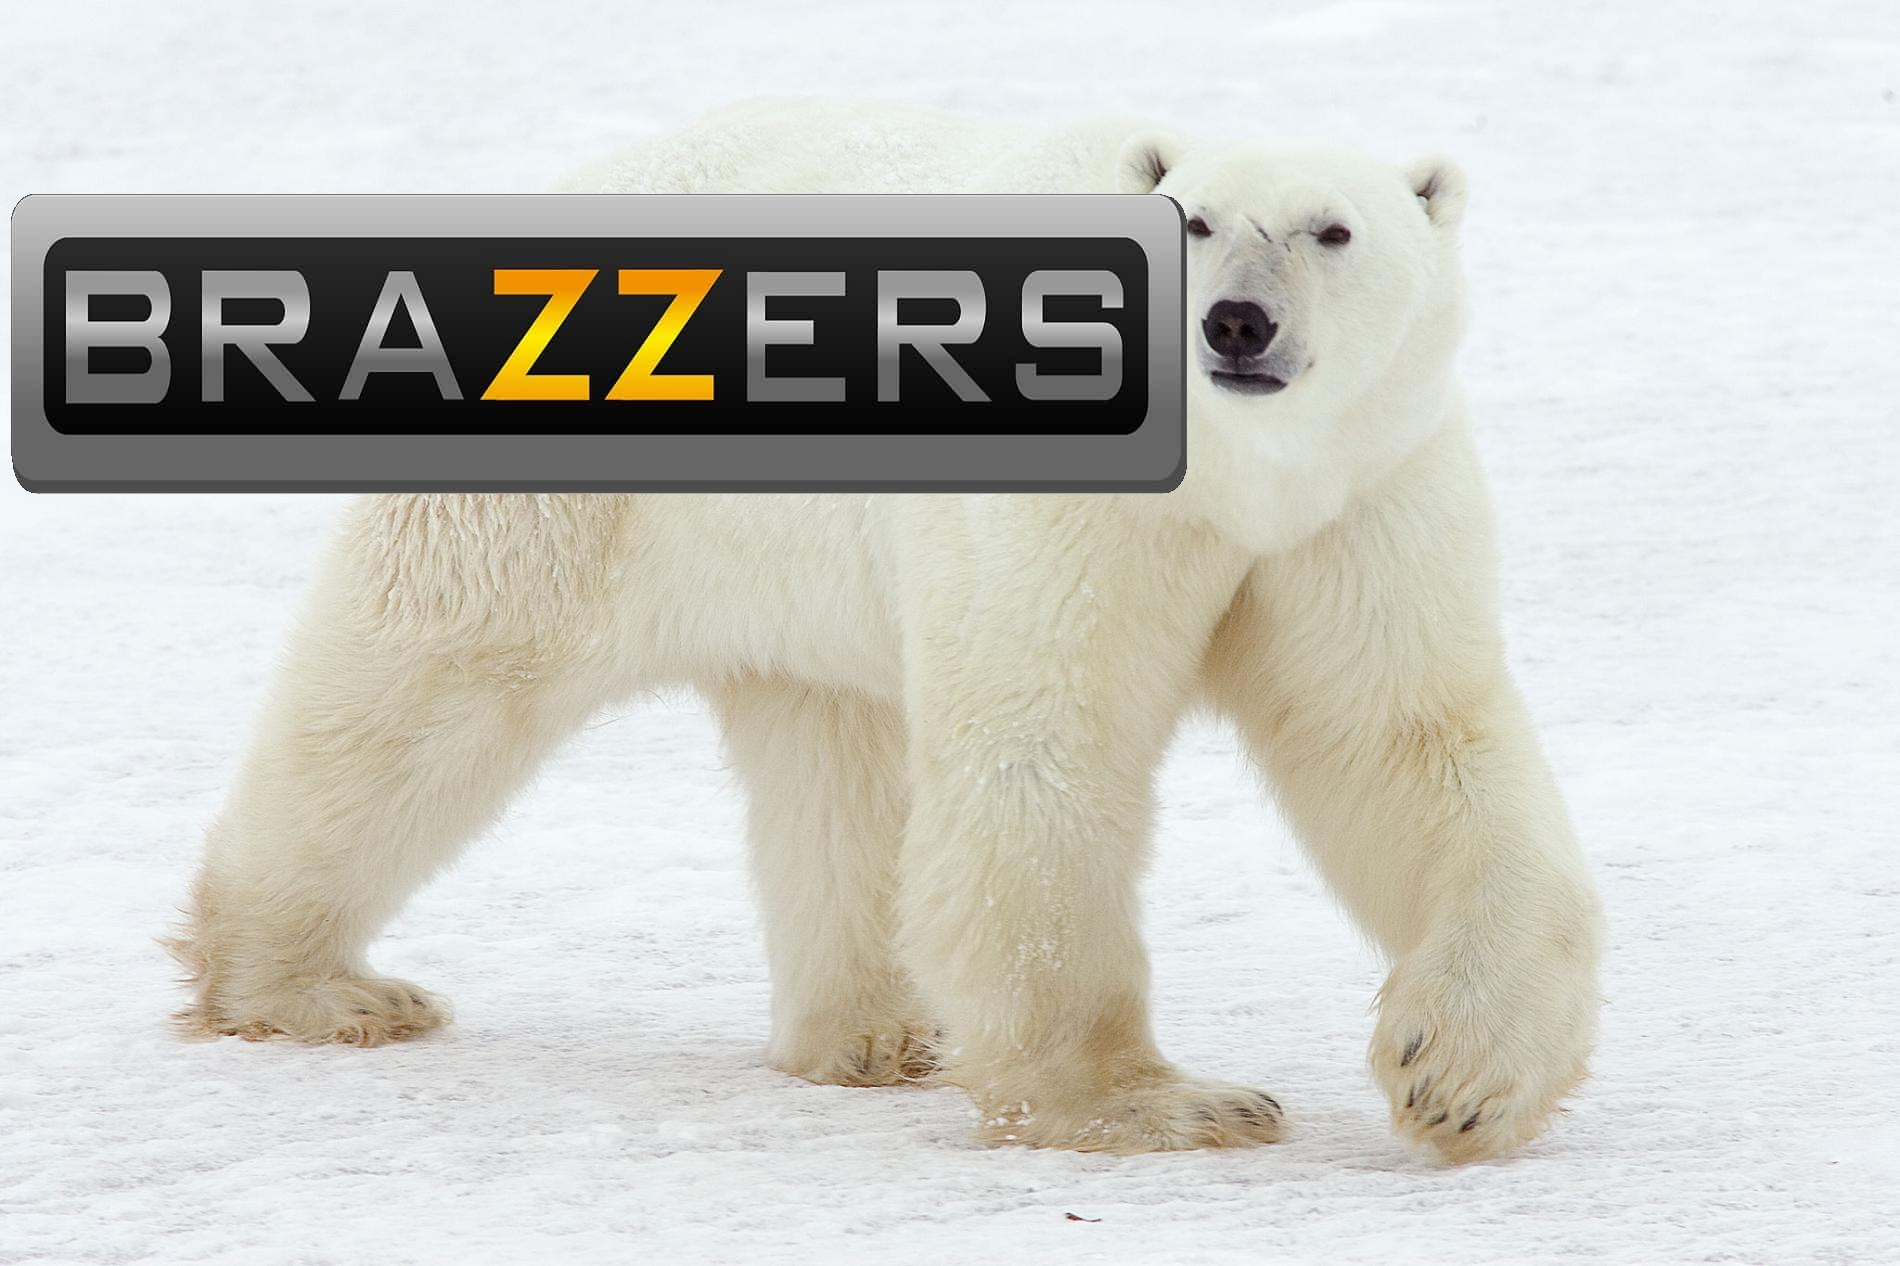
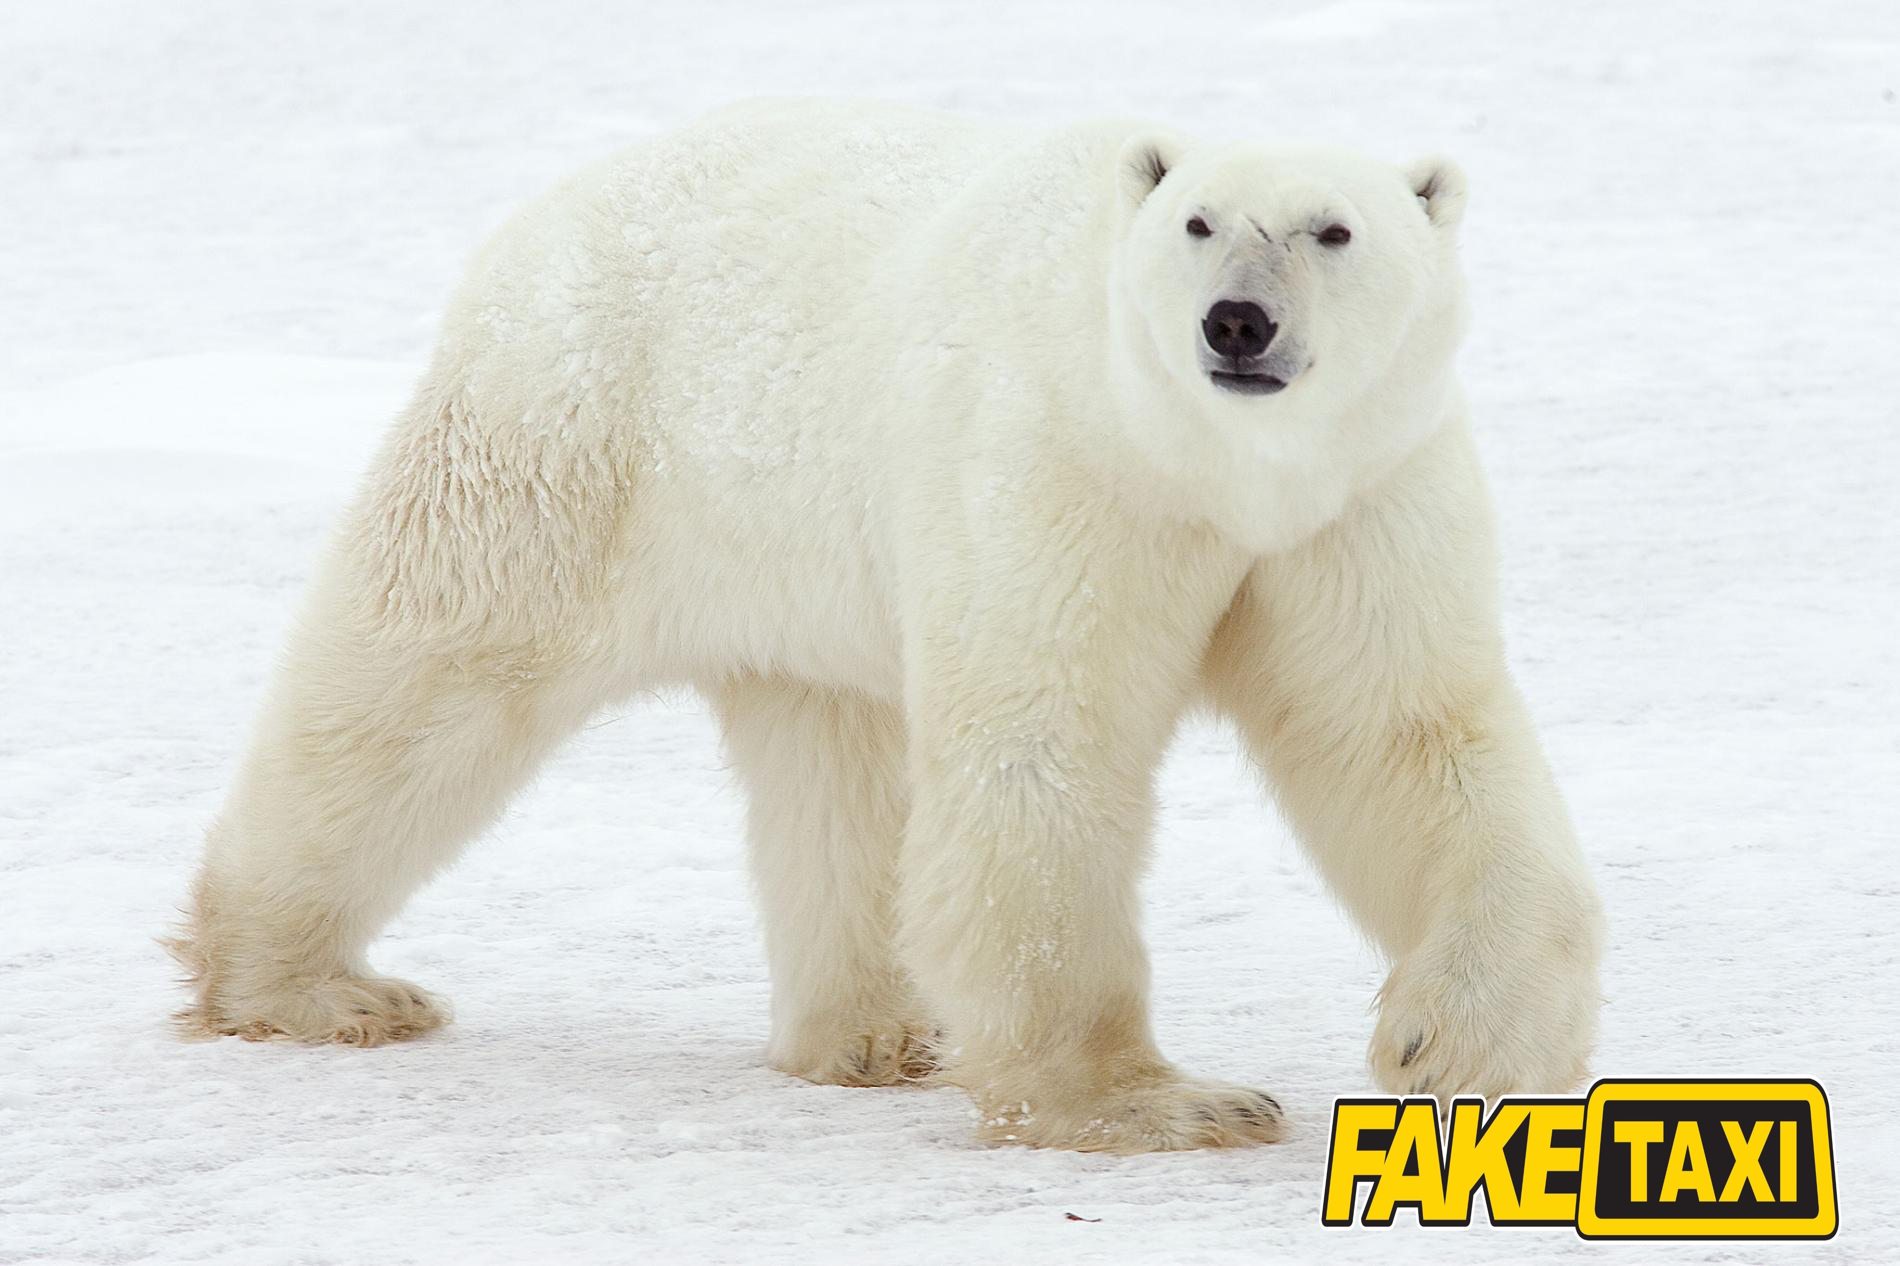
Added a choice of (two atm) options, works as intended

Changed region(s): [[0.0, 0.154, 0.6521, 0.4005], [0.6832, 0.8318, 0.9937, 0.9858]]

diff --git a/main.py b/main.py
@@ -5,20 +5,26 @@ from PIL import Image
 from PIL import ImageDraw
 from PIL import ImageFont
 
+choice = 2
 # attempts to open the image from input.extension and converts to RGBA
 img = Image.open('input.jpg').convert('RGBA')
 
 # outputs the size of the image
 width, height = img.size
-print('original width, height: ', width, height)
+#print('original width, height: ', width, height) #debug output
 
 # creates the watermark as a new image, as if just overlaying one image with the other
-watermark = Image.open('watermarks/brazzers.png').convert('RGBA')
+if (choice == 1):
+    #Brazzers watermark
+    watermark = Image.open('watermarks/brazzers.png').convert('RGBA')
+elif (choice == 2):
+    #FakeTaxi watermark
+    watermark = Image.open('watermarks/faketaxi.png').convert('RGBA')
 watermark = watermark.resize((round(width/3.375), round(height/6))) ##resizes watermark to make it smaller and make it be in a 16:9 aspect ratio
 w, h = watermark.size
 
-print('overlay width, height', w, h)
+#print('overlay width, height', w, h) #debug output
 
 img.paste(watermark, (width - w - round(width/50), height - h), watermark) #pasting the watermark onto the import image
 img.save('out.png')
-img.show()
+img.show() #debug output
